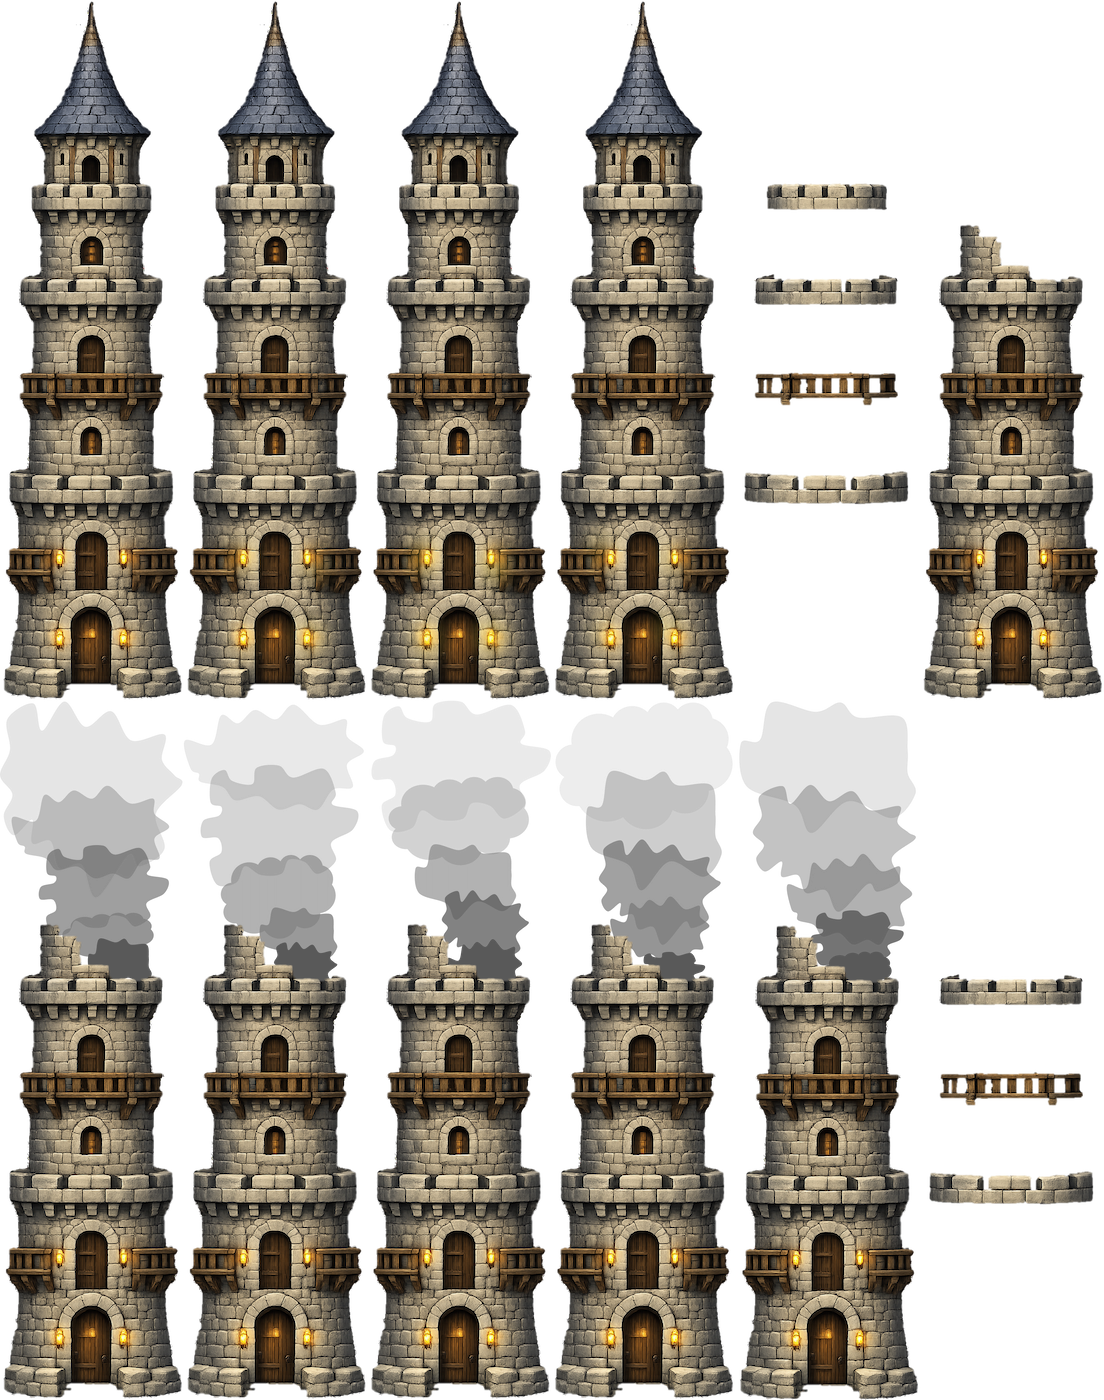
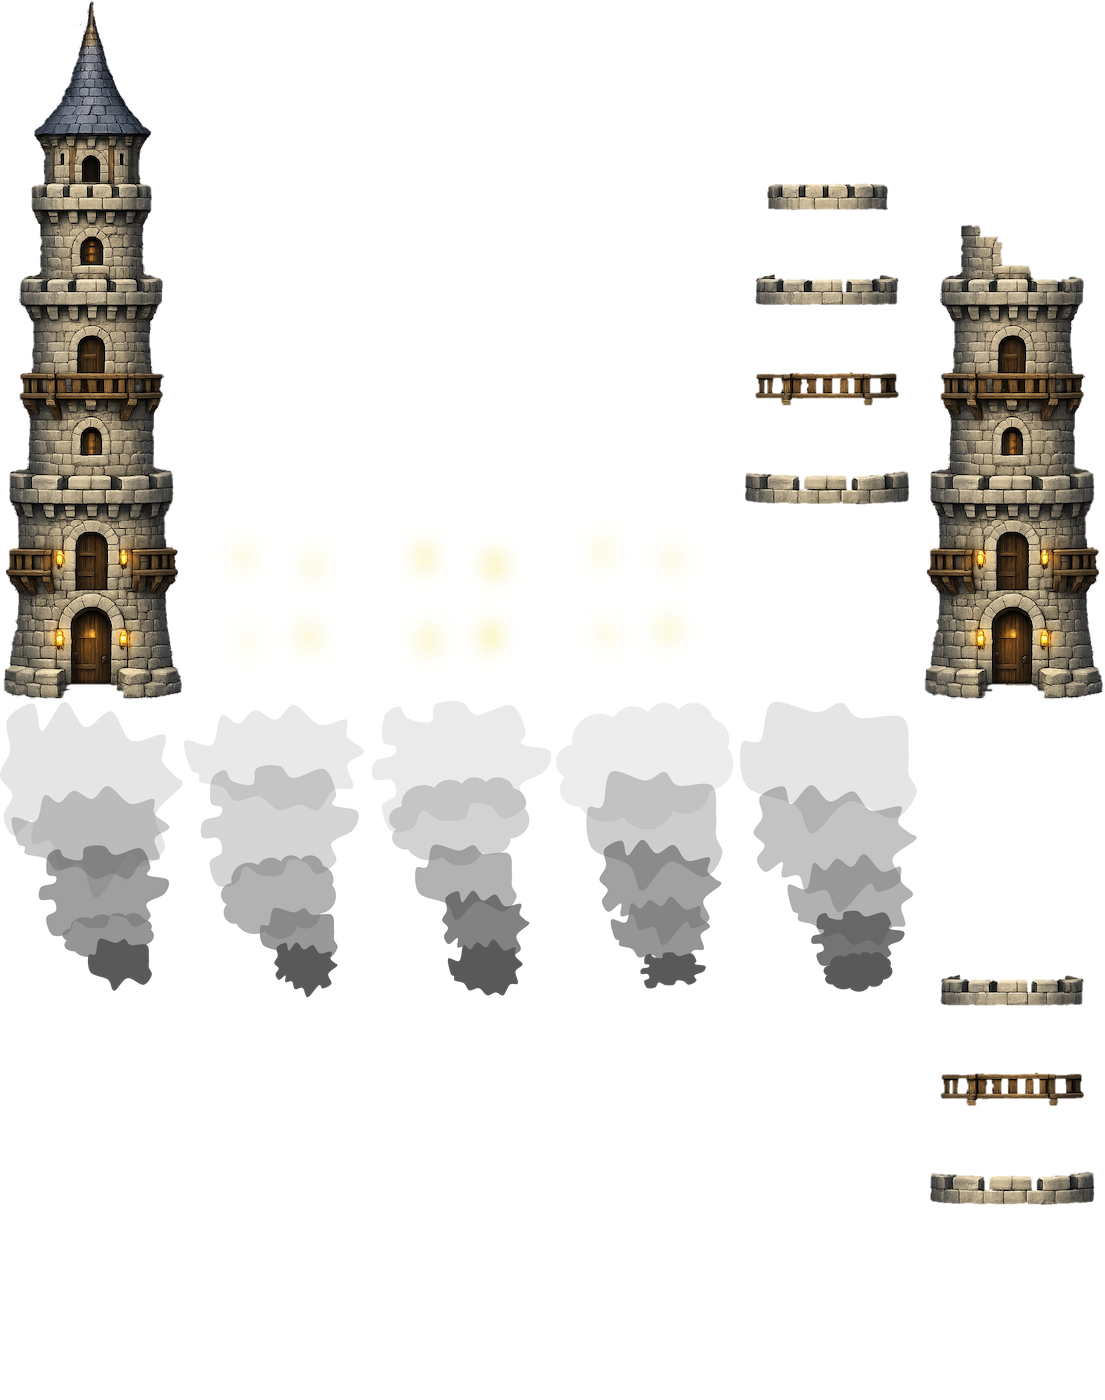
only use one tower sprite

diff --git a/src/map/tiles/decorationTiles.ts b/src/map/tiles/decorationTiles.ts
@@ -557,17 +557,14 @@ export function drawDecorationTile(
       return true;
     }
 
-    // Main overworld tower — large animated sprite, anchor at door-threshold level
+    // Main overworld tower — large animated sprite, anchor at door-threshold level.
+    // Frame 0 is the complete base tower; frames 1-3 are glow-only overlays composited on top.
     case MAIN_TOWER: {
-      drawSpriteKey(
-        ctx,
-        'overworld_main_tower',
-        'normal',
-        timeFrameIndex(frameTime, 4, 4),
-        sx,
-        sy,
-        ts,
-      );
+      drawSpriteKey(ctx, 'overworld_main_tower', 'normal', 0, sx, sy, ts);
+      const glowFrame = timeFrameIndex(frameTime, 4, 4);
+      if (glowFrame > 0) {
+        drawSpriteKey(ctx, 'overworld_main_tower', 'normal', glowFrame, sx, sy, ts);
+      }
       return true;
     }
 